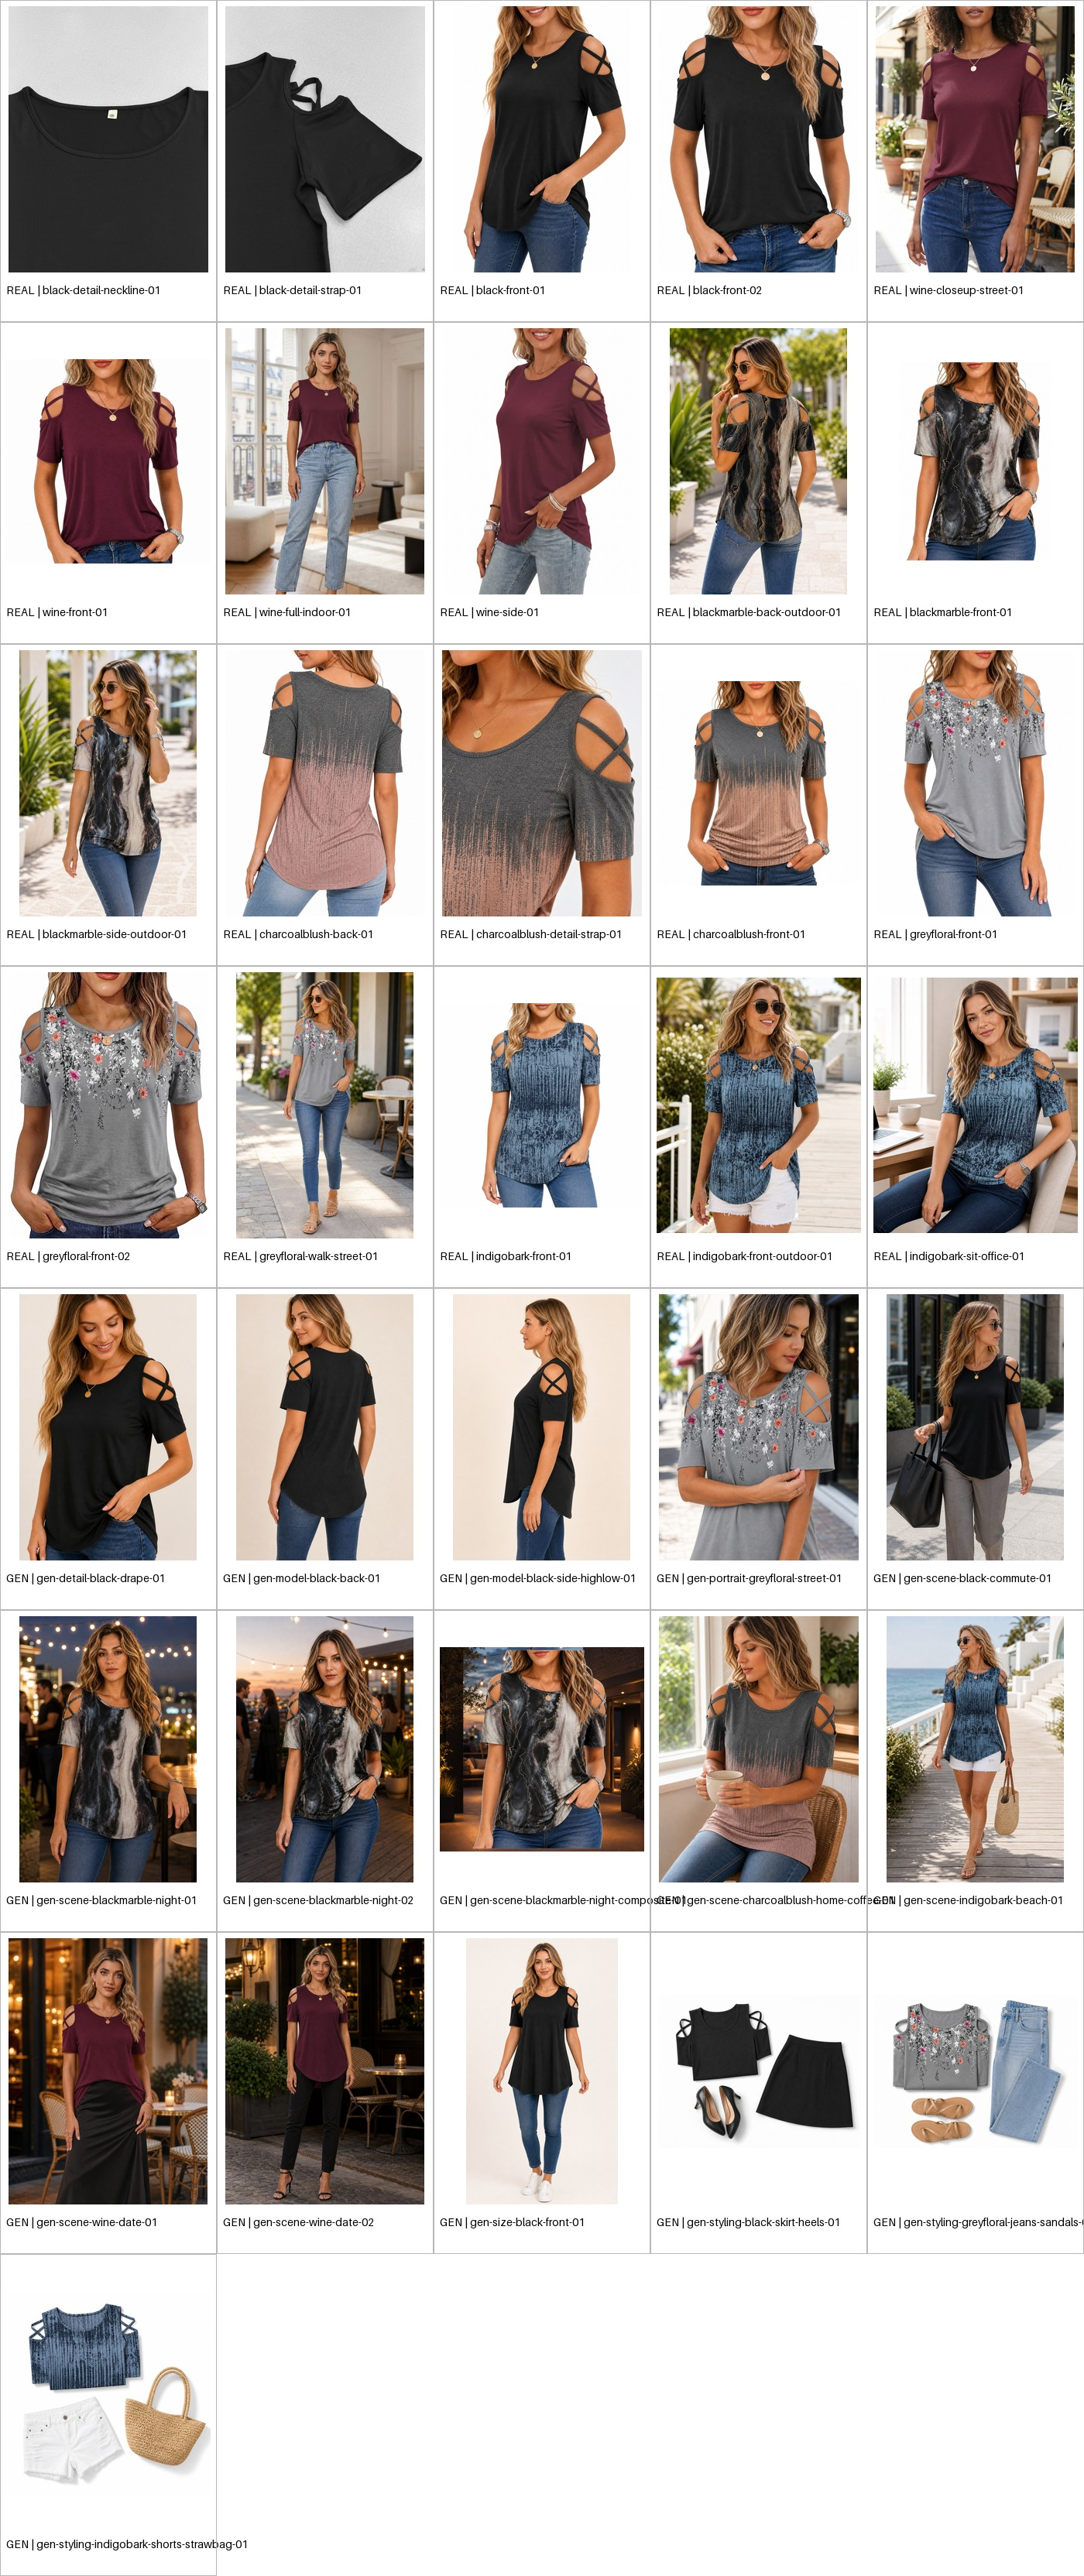
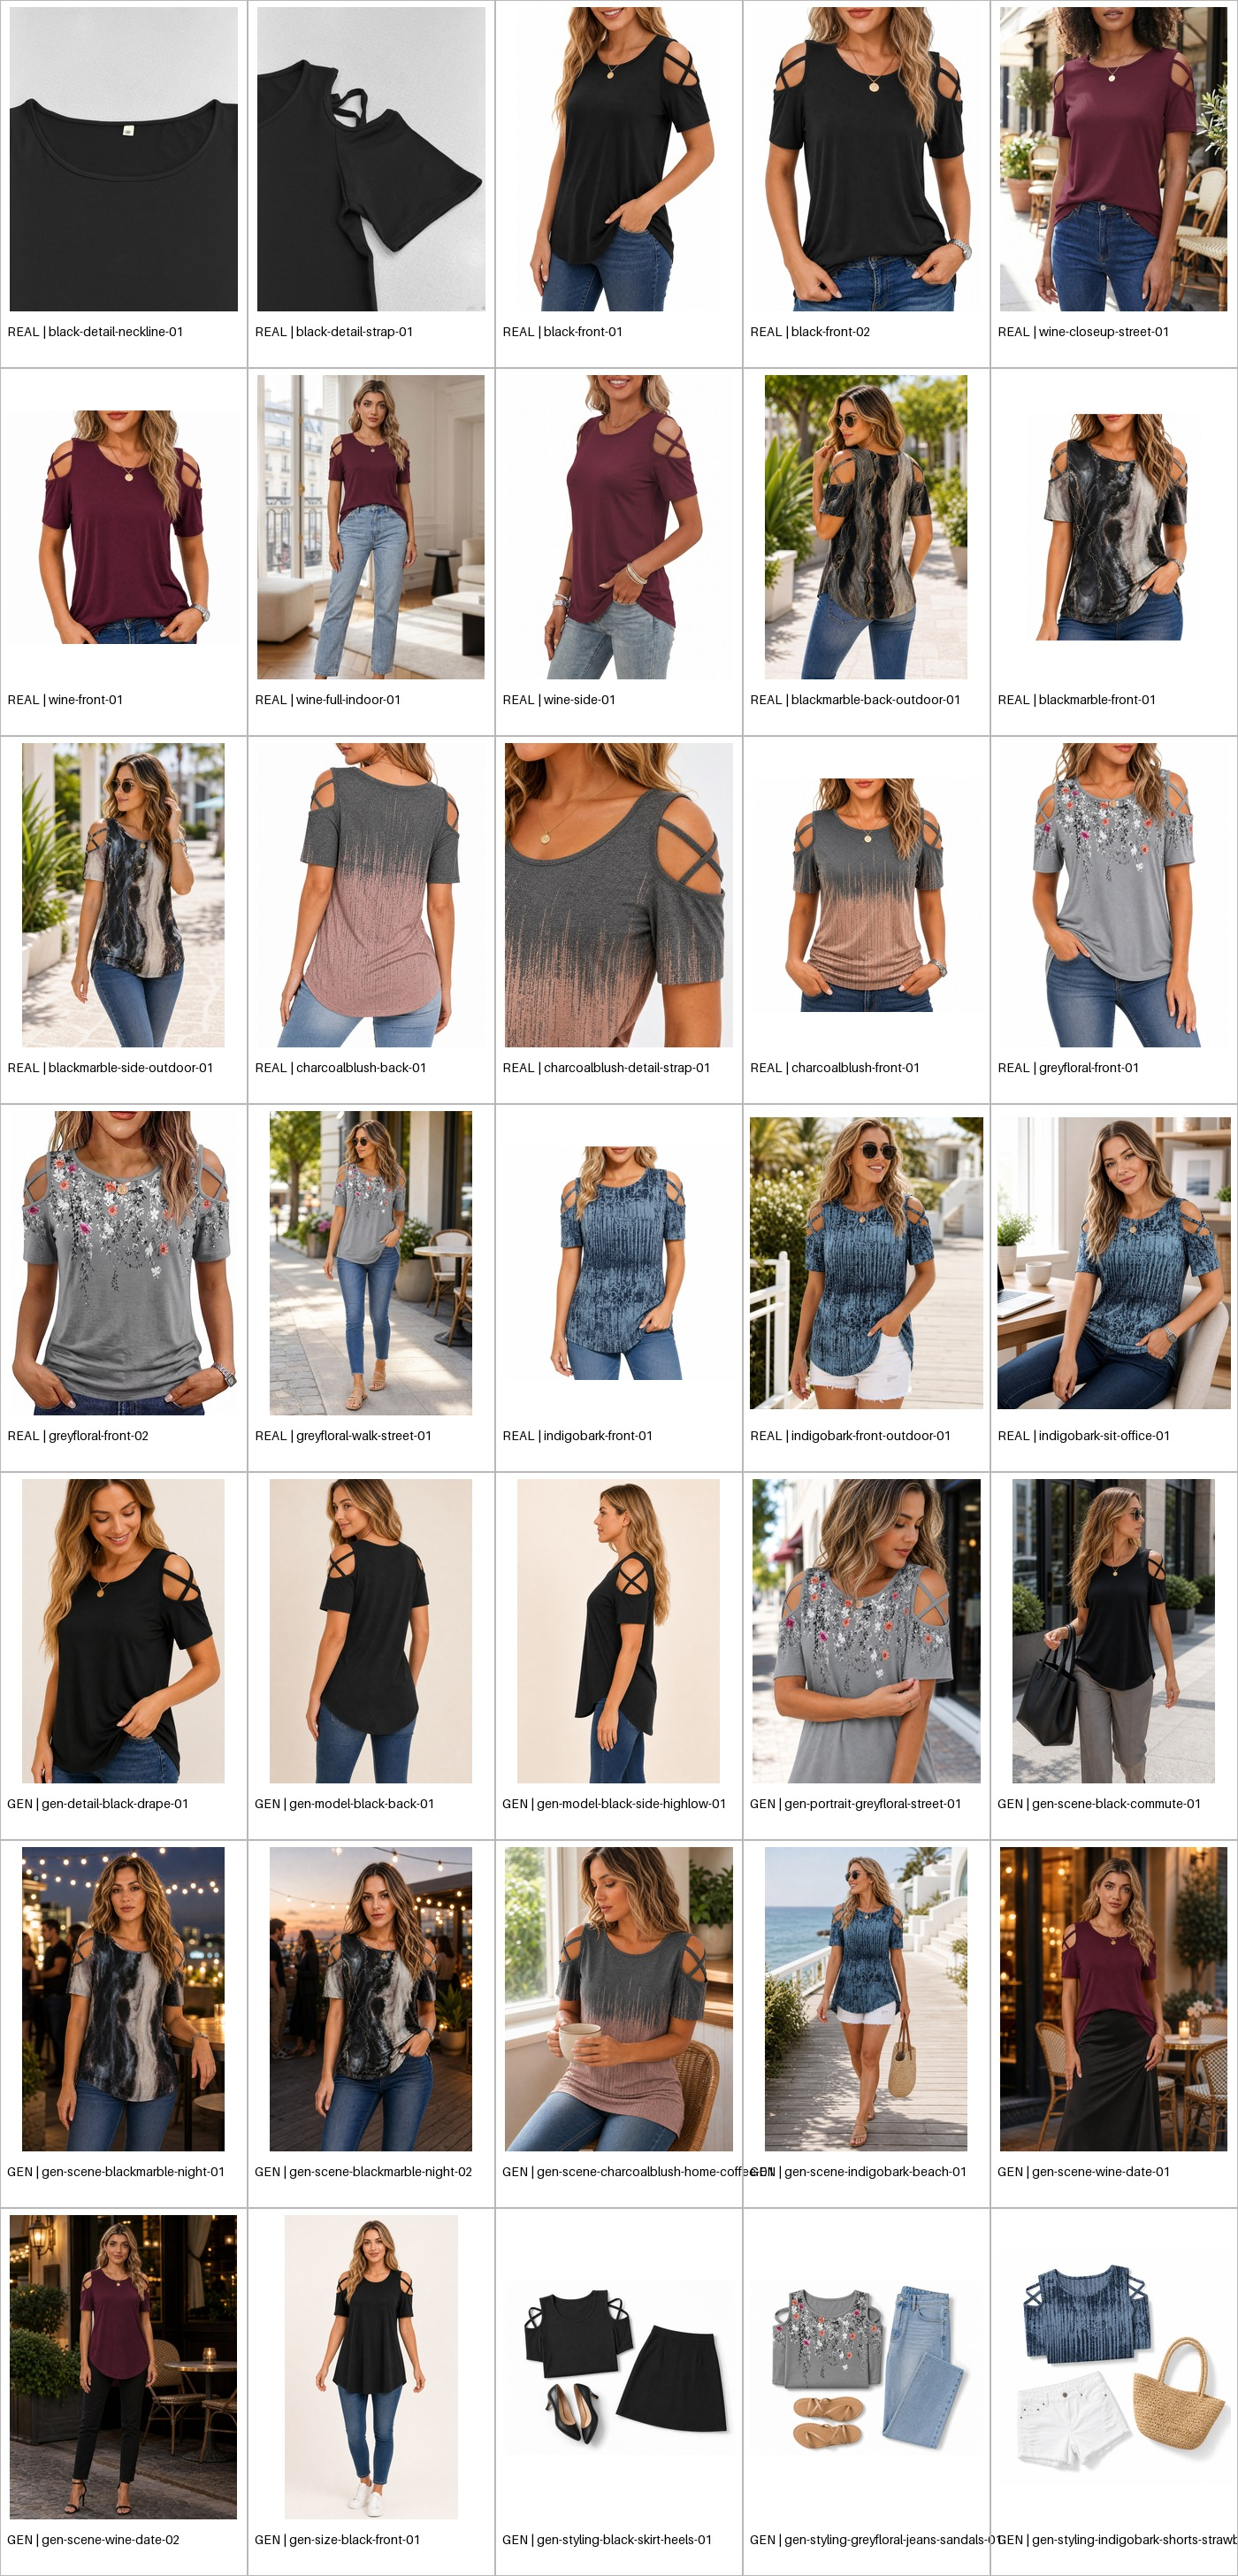
Remove rejected blackmarble composite

diff --git a/assets/gen/ASSET-GAP-AUDIT.md b/assets/gen/ASSET-GAP-AUDIT.md
@@ -50,10 +50,10 @@
 
 ## 本轮生产结果
 
-- Approved 生成/合成素材:13 张。
+- Approved 生成素材:12 张。
 - Draft 生成素材:3 张,均已在 `INDEX.md` 标明不可用于页面。
 - 已完成:黑色背面、黑色通勤、酒红约会、indigobark 海边、charcoalblush 居家咖啡、greyfloral 第二景别、垂坠演示、高低摆侧面、黑色七分身尺码底图、3 组差异化搭配。
-- `blackmarble × 夜晚小聚` 已通过精确合成补齐:`gen-scene-blackmarble-night-composite-01.png` 直接锁定原实拍人物与服装像素,只替换夜晚背景,印花走向、图案比例、分布和配色均与实拍完全一致。
+- 用户已拒绝 `blackmarble × 夜晚小聚` 精确合成图,该图已从素材库删除且不得用于页面。
 - 前两张自由生成夜景仍保留 Draft 作为失败对照,不得用于页面。
-- 花色 × 场景矩阵现已全部 Ready。
+- 页面制作阶段使用现有 Ready 的 blackmarble 实拍作为该印花出镜素材,不再补夜景图。
 - 验收材料:`asset-contact-sheet-jaroflove.jpg`。

diff --git a/assets/gen/INDEX.md b/assets/gen/INDEX.md
@@ -9,7 +9,6 @@
 | `gen-scene-wine-date-02.png` | Scene | wine | date | full body | 04/07 | `../color-wine-full-indoor-01.jpg`; `../color-wine-side-01.jpg` | 看镜头 | 浅笑不露齿 | Generated | Approved | 未塞衣摆,约会矩阵 |
 | `gen-scene-indigobark-beach-01.png` | Scene | indigobark | beach vacation | full body | 04/07 | `../print-indigobark-front-01.jpg`; `../print-indigobark-front-outdoor-01.jpg` | 望向画外左 | 露齿笑 | Generated | Approved | 海边矩阵;纹样方向与蓝黑配色通过 |
 | `gen-scene-charcoalblush-home-coffee-01.png` | Scene | charcoalblush | home coffee | three-quarter seated | 04/07 | `../print-charcoalblush-front-01.jpg`; `../print-charcoalblush-back-01.jpg` | 低头看杯子 | 平静松弛 | Generated | Approved | 居家咖啡矩阵;灰粉渐变通过 |
-| `gen-scene-blackmarble-night-composite-01.png` | Scene | blackmarble | night gathering | waist-up | 04/07 | `../print-blackmarble-front-01.jpg` | 裁切不显示完整眼部 | 平静 | Real-photo composite | Approved | 原实拍人物与服装像素锁定,仅替换夜晚背景;印花完全保真 |
 | `gen-portrait-greyfloral-street-01.png` | Portrait | greyfloral | street close-up | waist-up | 07 | `../print-greyfloral-front-01.jpg`; `../print-greyfloral-front-02.jpg` | 低头看袖口 | 专注神态 | Generated | Approved | 与实拍街拍为不同景别 |
 | `gen-detail-black-drape-01.png` | Detail/Fit | black | drape proof | waist-up | 03 | `../color-black-front-01.jpg`; `../color-black-detail-strap-01.jpg` | 低头看衣角 | 专注神态 | Generated | Approved | 自然垂坠,未作夸张弹力声明 |
 | `gen-model-black-side-highlow-01.png` | Model/Fit | black | side high-low hem | three-quarter | 03 | `../color-black-front-01.jpg`; `../color-wine-side-01.jpg` | 望向画外左 | 平静松弛 | Generated | Approved | 前短后长轮廓清楚 |
@@ -55,7 +54,7 @@
 | 01 Hero | 黑色正面锚点 + 至少一款印花配角 | Ready |
 | 02 Detail | 黑色领口、黑色肩带、charcoalblush 肩带 | Ready |
 | 03 Fabric/Fit | 垂坠演示 + 高低摆侧面 | Ready |
-| 04 Scenes | 六款花色专属场景矩阵 | Ready |
+| 04 Scenes | 黑色/酒红/indigobark/greyfloral/charcoalblush 专属场景 + blackmarble 实拍 | Ready for page production; rejected composite excluded |
 | 05 Styling | 三组差异化搭配组合 | Ready |
 | 06 Size | 黑色七分身标注底图 | Ready |
 | 07 Print Gallery | 四印花各至少两次且不同景别 | Ready |